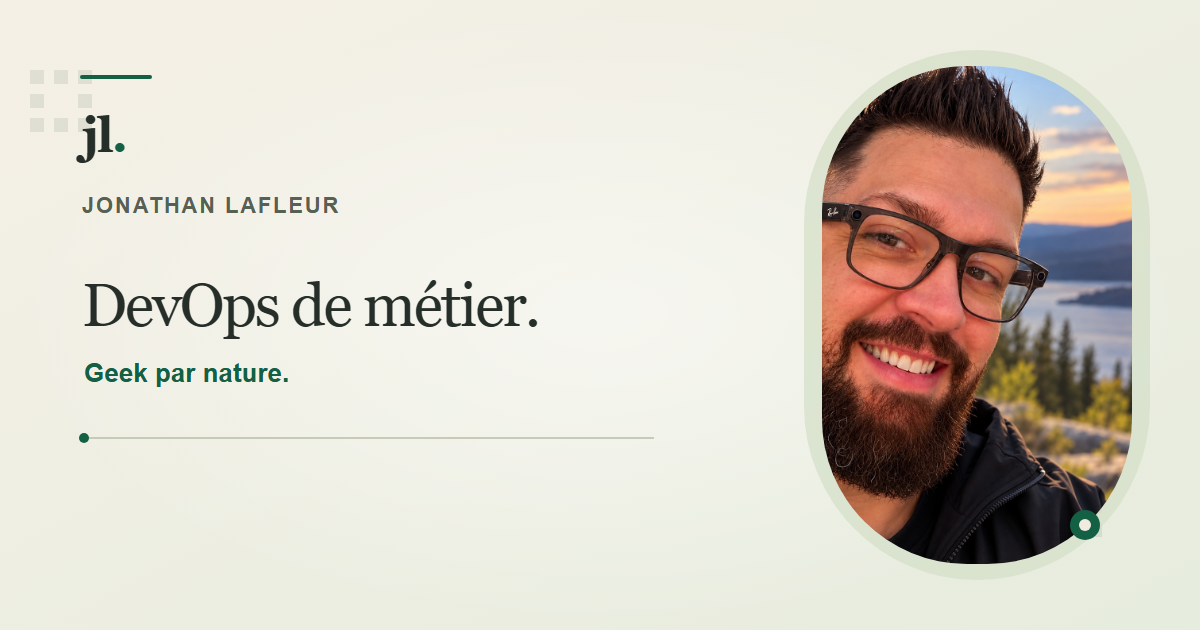
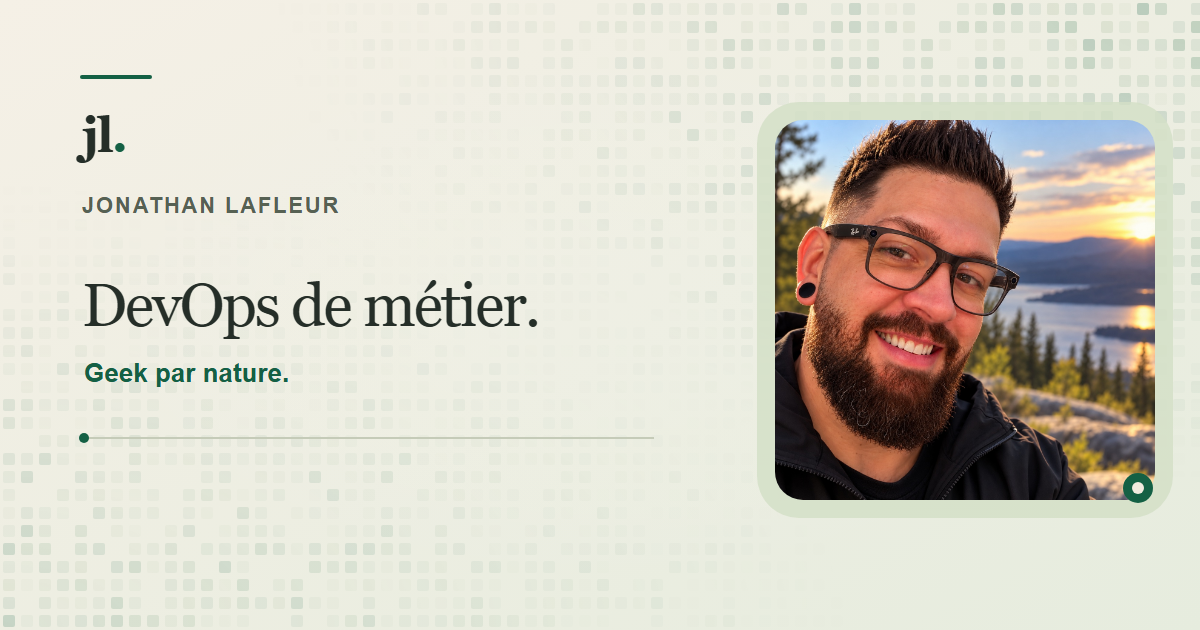
feat: add bilingual social sharing cards

diff --git a/en/index.html b/en/index.html
@@ -1,0 +1,210 @@
+<!doctype html>
+<html lang="en">
+<head>
+<meta charset="utf-8">
+<meta name="viewport" content="width=device-width, initial-scale=1">
+<title>Jonathan Lafleur — Projects & links</title>
+<meta name="description" content="Projects by Jonathan Lafleur: computer services, Kohai and links to GitHub and LinkedIn.">
+<link rel="canonical" href="https://jonathanlafleur.ca/en/">
+<link rel="alternate" hreflang="fr-CA" href="https://jonathanlafleur.ca/">
+<link rel="alternate" hreflang="en-CA" href="https://jonathanlafleur.ca/en/">
+<link rel="alternate" hreflang="x-default" href="https://jonathanlafleur.ca/">
+<meta property="og:type" content="website">
+<meta property="og:site_name" content="Jonathan Lafleur">
+<meta property="og:title" content="Jonathan Lafleur — DevOps by trade. Geek by nature.">
+<meta property="og:description" content="My projects in DevOps, programming, hardware and automation.">
+<meta property="og:url" content="https://jonathanlafleur.ca/en/">
+<meta property="og:image" content="https://jonathanlafleur.ca/assets/social-preview-en.png?v=20261022b">
+<meta property="og:image:width" content="1200">
+<meta property="og:image:height" content="630">
+<meta property="og:image:type" content="image/png">
+<meta property="og:image:alt" content="Jonathan Lafleur, DevOps by trade and geek by nature, with a sunset landscape behind him.">
+<meta property="og:locale" content="en_CA">
+<meta property="og:locale:alternate" content="fr_CA">
+<meta name="twitter:card" content="summary_large_image">
+<meta name="twitter:title" content="Jonathan Lafleur — DevOps by trade. Geek by nature.">
+<meta name="twitter:description" content="My projects in DevOps, programming, hardware and automation.">
+<meta name="twitter:image" content="https://jonathanlafleur.ca/assets/social-preview-en.png?v=20261022b">
+<meta name="twitter:image:alt" content="Jonathan Lafleur, DevOps by trade and geek by nature, with a sunset landscape behind him.">
+<meta name="color-scheme" content="light dark">
+<meta name="theme-color" content="#f1ebdf">
+<link rel="icon" href="../assets/favicon.svg" type="image/svg+xml">
+<link rel="stylesheet" href="../assets/style.css?v=20261022l">
+<script>
+try {
+  var size = localStorage.getItem('jl-hub-taille');
+  if (size === 'grande' || size === 'tres-grande') document.documentElement.dataset.taille = size;
+  var theme = localStorage.getItem('jl-hub-theme');
+  if (theme === 'light' || theme === 'dark') document.documentElement.dataset.theme = theme;
+} catch (e) {}
+</script>
+<script src="../assets/app.js?v=20261022l" defer></script>
+<script src="../assets/accessibility.js?v=20261022l" defer></script>
+<script src="../assets/contact.js?v=20261022l" defer></script>
+</head>
+<body>
+<a class="skip-link" href="#main" data-en="Skip to content">Aller au contenu</a>
+<header class="site-header wrap">
+  <a class="brand" href="./" aria-label="Jonathan Lafleur">
+    <span class="monogram" aria-hidden="true">jl<span>.</span></span>
+    <span>Jonathan Lafleur</span>
+  </a>
+  <nav class="navigation" aria-label="Menu principal" data-en-label="Main navigation">
+    <a href="#projets" data-en="Projects">Projets</a>
+    <a href="#activite" data-en="Activity">Activité</a>
+    <a href="#contact" data-en="Contact">Contact</a>
+    <button class="language-toggle" type="button" aria-label="Read in English" lang="en">EN</button>
+    <button class="theme-toggle" type="button" aria-label="Changer le thème" aria-pressed="false">
+      <svg viewBox="0 0 24 24" fill="none" stroke="currentColor" stroke-width="1.6" aria-hidden="true"><path d="M20.5 13A8.5 8.5 0 0 1 11 3.5 8.5 8.5 0 1 0 20.5 13Z"/></svg>
+    </button>
+  </nav>
+</header>
+<aside class="preferences" aria-label="Taille du texte" data-en-label="Text size">
+  <button type="button" class="preferences-toggle" aria-controls="display-controls" aria-expanded="true">
+    <span aria-hidden="true">Aa</span><span class="visually-hidden" data-en="Text size">Taille du texte</span>
+    <span class="preferences-arrow" aria-hidden="true">›</span>
+  </button>
+    <div class="tools" id="display-controls">
+      <p class="preference-label" data-en="Text size">Taille du texte</p><div class="switch" role="group" aria-label="Taille du texte" data-en-label="Text size">
+        <button type="button" data-taille-choice="normale" aria-pressed="true" aria-label="Taille du texte : normale" data-en-label="Text size: normal">A</button>
+        <button type="button" data-taille-choice="grande" aria-pressed="false" aria-label="Taille du texte : grande" data-en-label="Text size: large">A+</button>
+        <button type="button" data-taille-choice="tres-grande" aria-pressed="false" aria-label="Taille du texte : très grande" data-en-label="Text size: extra large">A++</button>
+      </div>
+    </div>
+</aside>
+<main id="main" class="wrap" tabindex="-1">
+  <section class="intro" aria-labelledby="intro-title">
+    <div class="intro-heading">
+      <p class="eyebrow"><span class="small-line" aria-hidden="true"></span><span data-en="DEVOPS · CODE · AI · HARDWARE">DEVOPS · CODE · IA · HARDWARE</span></p>
+      <h1 id="intro-title"><span data-en="DevOps by trade.">DevOps de métier.</span><br><em data-en="Geek by nature.">Geek par nature.</em></h1>
+      <p data-en="DevOps engineer, programmer and hands-on technician. I automate repetitive work to reduce fatigue and make everyday life easier.">DevOps, programmeur et technicien. J’automatise les tâches répétitives pour réduire la fatigue et simplifier le quotidien.</p>
+      <p class="muted" data-en="AI is part of how I build and explore. From software to hardware, curiosity is the common thread.">L’IA fait partie de ma façon de créer et d’explorer. Du logiciel au hardware, la curiosité est le fil conducteur.</p>
+      <a class="linkedin-primary" href="https://www.linkedin.com/in/jonathanlafleur/" target="_blank" rel="noopener noreferrer"><span data-en="My background on LinkedIn">Mon parcours sur LinkedIn</span><span aria-hidden="true">↗</span></a>
+      <a class="text-link" href="#projets"><span data-en="Explore my projects">Découvrir mes projets</span><span aria-hidden="true">↘</span></a>
+    </div>
+    <div class="intro-copy">
+      <figure class="portrait-frame">
+      <img class="profile-photo" src="../assets/profile-wayfarer.jpg" alt="Portrait de Jonathan Lafleur" data-en-alt="Portrait of Jonathan Lafleur" width="1254" height="1254" fetchpriority="high">
+        <figcaption>Jonathan Lafleur<span data-en="Curious. Always learning.">Curieux. Toujours en apprentissage.</span></figcaption>
+      </figure>
+    </div>
+  </section>
+  <section class="projects-section" id="projets" aria-labelledby="projects-title">
+    <div class="section-heading">
+      <div><p class="eyebrow" data-en="BUILT & SHARED">CRÉER & PARTAGER</p><h2 id="projects-title" data-en="A few things I’m building.">Quelques projets à découvrir.</h2></div>
+      <a class="quiet-link" href="https://github.com/jonathanlaf?tab=repositories" target="_blank" rel="noopener noreferrer"><span data-en="All repositories">Tous les dépôts</span><span aria-hidden="true">↗</span></a>
+    </div>
+    <div class="projects-grid">
+      <article class="project-card keyaura-card">
+        <a class="project-image-link" href="https://github.com/jonathanlaf/keyaura" aria-label="Découvrir KeyAura" data-en-label="Explore KeyAura" target="_blank" rel="noopener noreferrer">
+          <div class="project-image keyaura-image"><img src="../assets/keyaura-logo.png" alt="Logo KeyAura" data-en-alt="KeyAura logo" width="512" height="512" loading="lazy"><span class="keyaura-wordmark">KeyAura</span></div>
+          <span class="project-image-arrow" aria-hidden="true">↗</span>
+        </a>
+        <div class="project-body">
+          <div class="project-meta"><span class="project-category" data-en="MACOS · KEYBOARDS · AI-ASSISTED DEVELOPMENT">MACOS · CLAVIERS · DÉVELOPPEMENT AVEC L’IA</span><span class="project-number" aria-hidden="true">01 /</span></div>
+          <h3><a href="https://github.com/jonathanlaf/keyaura" target="_blank" rel="noopener noreferrer">KeyAura</a></h3>
+          <p data-en="A macOS overlay that makes programmable keyboards easier to learn: active layers, keys and shortcuts stay visible while you work. Built with Claude and Codex.">Une application macOS pour apprivoiser les claviers programmables : couches actives, touches et raccourcis restent visibles pendant le travail. Développée avec Claude et Codex.</p>
+          <p class="project-detail" data-en="Currently supports the ZSA Voyager via Oryx.">Compatible pour le moment avec le ZSA Voyager via Oryx.</p>
+          <a class="project-visit" href="https://github.com/jonathanlaf/keyaura" target="_blank" rel="noopener noreferrer"><span data-en="Explore KeyAura on GitHub">Découvrir KeyAura sur GitHub</span><span aria-hidden="true">↗</span></a>
+          <footer class="project-stats" data-repositories="keyaura"></footer>
+        </div>
+      </article>
+      <article class="project-card">
+        <a class="project-image-link" href="https://github.com/jonathanlaf/cad-mouse-mk2/tree/main/firmware" aria-label="Découvrir le firmware CAD Mouse MK2" data-en-label="Explore the CAD Mouse MK2 firmware" target="_blank" rel="noopener noreferrer">
+          <div class="project-image firmware-image" aria-hidden="true"><svg viewBox="0 0 240 160" fill="none"><path d="m120 18 70 40v66l-70 36-70-36V58zM50 58l70 40 70-40M120 98v62" stroke="currentColor" stroke-width="3"/><path d="M120 40v34m-16-18 16 18 16-18M76 116l28 16m-17-27-11 11 2 16M164 116l-28 16m17-27 11 11-2 16" stroke="currentColor" stroke-width="3"/></svg><span>CAD Mouse MK2</span><small data-en="Firmware + companion app · WIP">Firmware + application · En développement</small></div>
+          <span class="project-image-arrow" aria-hidden="true">↗</span>
+        </a>
+        <div class="project-body">
+          <div class="project-meta"><span class="project-category" data-en="HARDWARE · FIRMWARE · WORK IN PROGRESS">HARDWARE · FIRMWARE · EN DÉVELOPPEMENT</span><span class="project-number" aria-hidden="true">02 /</span></div>
+          <h3><a href="https://github.com/jonathanlaf/cad-mouse-mk2/tree/main/firmware" target="_blank" rel="noopener noreferrer">CAD Mouse MK2</a></h3>
+          <p data-en="Firmware adaptations and a companion app for a DIY six-axis CAD controller, based on the original CAD Mouse MK2 project. Both are works in progress, awaiting completion of my physical mouse build.">Des adaptations du firmware et une application compagnon pour un contrôleur de CAO à six axes, basé sur le projet original CAD Mouse MK2. Les deux sont en développement, en attendant que je termine la construction de ma souris.</p>
+          <p class="project-detail" data-en="A YouTube video is coming soon.">Une vidéo YouTube arrive bientôt.</p>
+          <a class="project-visit" href="https://github.com/jonathanlaf/cad-mouse-mk2/tree/main/firmware" target="_blank" rel="noopener noreferrer"><span data-en="Explore the firmware">Découvrir le firmware</span><span aria-hidden="true">↗</span></a>
+          <a class="project-visit" href="https://github.com/jonathanlaf/cad-mouse-mk2-companion-app" target="_blank" rel="noopener noreferrer"><span data-en="Explore the companion app">Découvrir l’application compagnon</span><span aria-hidden="true">↗</span></a>
+          <footer class="project-stats" data-repositories="cad-mouse-mk2 cad-mouse-mk2-companion-app"></footer>
+        </div>
+      </article>
+
+      <article class="project-card">
+        <a class="project-image-link" href="https://services.jonathanlafleur.ca/" aria-label="Découvrir Services PC et Mac" data-en-label="Visit PC and Mac Services" target="_blank" rel="noopener noreferrer">
+          <div class="project-image services-image">
+            <img src="../assets/services-preview.png" alt="Aperçu du site Services PC et Mac" data-en-alt="Preview of the PC and Mac Services website" width="1100" height="900">
+          </div>
+          <span class="project-image-arrow" aria-hidden="true">↗</span>
+        </a>
+        <div class="project-body">
+          <div class="project-meta"><span class="project-category" data-en="TECH SUPPORT">SERVICES INFORMATIQUES</span><span class="project-number" aria-hidden="true">03 /</span></div>
+          <h3><a href="https://services.jonathanlafleur.ca/" data-en="PC & Mac Services" target="_blank" rel="noopener noreferrer">Services PC et Mac</a></h3>
+          <p data-en="Troubleshooting, upgrades and friendly help. Remotely, at the workshop or at your home for setup.">Dépannage, améliorations et accompagnement. À distance, à l’atelier ou chez vous pour la configuration.</p>
+          <a class="project-visit" href="https://services.jonathanlafleur.ca/" target="_blank" rel="noopener noreferrer"><span>services.jonathanlafleur.ca</span><span aria-hidden="true">↗</span></a>
+          <footer class="project-stats" data-repositories="services"></footer>
+        </div>
+      </article>
+      <article class="project-card">
+        <a class="project-image-link" href="https://kohai.jonathanlafleur.ca/" aria-label="Découvrir Kohai" data-en-label="Visit Kohai" target="_blank" rel="noopener noreferrer">
+          <div class="project-image kohai-image">
+            <img src="../assets/kohai-preview.png" alt="Aperçu de Kohai, fiches d’étude de kata" data-en-alt="Preview of Kohai, kata study notes" width="1100" height="900">
+          </div>
+          <span class="project-image-arrow" aria-hidden="true">↗</span>
+        </a>
+        <div class="project-body">
+          <div class="project-meta"><span class="project-category" data-en="LEARNING & KARATE">APPRENTISSAGE & KARATÉ</span><span class="project-number" aria-hidden="true">04 /</span></div>
+          <h3><a href="https://kohai.jonathanlafleur.ca/" target="_blank" rel="noopener noreferrer">Kohai <span class="kanji" lang="ja">後輩</span></a></h3>
+          <p data-en="Personal study notes for Shotokan karate kata. A place to review, understand and keep learning.">Des fiches personnelles pour étudier les kata de karaté Shotokan. Un espace pour réviser, comprendre et continuer d’apprendre.</p>
+          <a class="project-visit" href="https://kohai.jonathanlafleur.ca/" target="_blank" rel="noopener noreferrer"><span>kohai.jonathanlafleur.ca</span><span aria-hidden="true">↗</span></a>
+          <footer class="project-stats" data-repositories="kohai"></footer>
+        </div>
+      </article>
+    </div>
+  </section>
+  <section id="activite" class="activity-section" aria-labelledby="activity-title">
+    <div class="section-heading"><div><p class="eyebrow" data-en="A LITTLE GREEN, DAY BY DAY">DU VERT, AU FIL DES JOURS</p><h2 id="activity-title" data-en="Building, one contribution at a time.">Créer, une contribution à la fois.</h2></div><a class="quiet-link" href="https://github.com/jonathanlaf" target="_blank" rel="noopener noreferrer"><span data-en="View on GitHub">Voir sur GitHub</span><span aria-hidden="true">↗</span></a></div>
+    <p class="activity-summary" data-activity-summary data-en="My contribution activity, as shown on my public GitHub profile.">Mon activité de contribution, telle qu’affichée sur mon profil GitHub public.</p>
+    <p class="muted" data-en="I also contribute to private Git repositories whose activity is not represented here.">Je contribue aussi à des dépôts Git privés dont l’activité n’est pas représentée ici.</p>
+    <div class="contribution-scroll" tabindex="0" role="region" aria-label="Calendrier des contributions GitHub, défilement horizontal" data-en-label="GitHub contribution calendar, scroll horizontally">
+      <div class="contribution-chart"><div class="contribution-months" aria-hidden="true"></div><div class="contribution-grid" role="group" aria-describedby="calendar-help"></div></div>
+    </div>
+    <p class="visually-hidden" id="calendar-help" data-en="Use the arrow keys to explore individual days. Left and right move by a week; up and down move by a day. Home and End jump to the first and last day.">Utilisez les flèches pour parcourir les jours. Gauche et droite changent de semaine ; haut et bas changent de jour. Début et Fin vont au premier et au dernier jour.</p>
+    <div class="contribution-caption"><span data-activity-updated>Activité du profil public</span><span class="contribution-legend"><span data-en="Less">Moins</span><i data-level="0"></i><i data-level="1"></i><i data-level="2"></i><i data-level="3"></i><i data-level="4"></i><span data-en="More">Plus</span></span></div>
+  </section>
+  <section class="connect-section" id="contact" aria-labelledby="connect-title">
+    <div class="connect-copy"><p class="eyebrow" data-en="LET’S CONNECT">GARDONS LE CONTACT</p><h2 id="connect-title" data-en="The code. The person.">Le code. La personne.</h2><p data-en="I like helping people, learning and growing. Family matters to me, as does using technology to make more room for life. Find my professional background on LinkedIn and more projects on GitHub.">J’aime aider les gens, apprendre et grandir. Ma famille compte beaucoup pour moi, tout comme utiliser la technologie pour faire plus de place à la vie. Retrouvez mon parcours sur LinkedIn et d’autres projets sur GitHub.</p></div>
+    <div class="profile-links">
+      <div class="contact-actions">
+        <a class="text-link" data-contact-phone href="#message"><span data-en="Call me">Appelez-moi</span><span aria-hidden="true">↗</span></a>
+        <a class="text-link" data-contact-email href="#message"><span data-en="Email me">Écrivez-moi</span><span aria-hidden="true">↗</span></a>
+      </div>
+      <a class="profile-link" href="https://www.linkedin.com/in/jonathanlafleur/" target="_blank" rel="noopener noreferrer">
+        <svg viewBox="0 0 24 24" fill="currentColor" aria-hidden="true"><path d="M5 3a2 2 0 1 0 0 4 2 2 0 0 0 0-4ZM3.3 9h3.4v12H3.3V9Zm5.5 0H12v1.6h.05c.45-.85 1.55-1.85 3.2-1.85 3.43 0 4.05 2.25 4.05 5.18V21h-3.4v-6.27c0-1.5-.03-3.43-2.1-3.43-2.1 0-2.42 1.63-2.42 3.32V21H8.8V9Z"/></svg>
+        <span><strong>LinkedIn</strong><small>Jonathan Lafleur</small></span><span class="link-arrow" aria-hidden="true">↗</span>
+      </a>
+      <a class="profile-link" href="https://github.com/jonathanlaf" target="_blank" rel="noopener noreferrer">
+        <svg viewBox="0 0 24 24" fill="currentColor" aria-hidden="true"><path d="M12 2a10 10 0 0 0-3.16 19.49c.5.09.68-.22.68-.48v-1.86c-2.78.6-3.37-1.18-3.37-1.18-.45-1.16-1.11-1.47-1.11-1.47-.91-.62.07-.61.07-.61 1 .07 1.53 1.03 1.53 1.03.89 1.53 2.34 1.09 2.91.83.09-.65.35-1.09.64-1.34-2.22-.25-4.55-1.11-4.55-4.94 0-1.09.39-1.99 1.03-2.69-.1-.25-.45-1.27.1-2.65 0 0 .84-.27 2.75 1.03A9.58 9.58 0 0 1 12 6.82c.85 0 1.71.11 2.51.34 1.91-1.3 2.75-1.03 2.75-1.03.55 1.38.2 2.4.1 2.65.64.7 1.03 1.6 1.03 2.69 0 3.84-2.34 4.68-4.57 4.93.36.31.68.92.68 1.85v2.76c0 .27.18.58.69.48A10 10 0 0 0 12 2Z"/></svg>
+        <span><strong>GitHub</strong><small>@jonathanlaf</small></span><span class="link-arrow" aria-hidden="true">↗</span>
+      </a>
+    </div>
+  </section>
+  <section class="message-section" id="message" aria-labelledby="message-title">
+    <div><p class="eyebrow" data-en="SAY HELLO">UN MOT POUR COMMENCER</p><h2 id="message-title" data-en="Let’s talk.">On se parle ?</h2><p class="muted" data-en="A project, an idea or a question? Send me a message.">Un projet, une idée ou une question ? Envoyez-moi un message.</p></div>
+    <form class="contact-form" action="https://formspree.io/f/mvkzevgd" method="post" novalidate>
+      <input type="hidden" name="_subject" value="Message depuis jonathanlafleur.ca">
+      <input type="hidden" name="source" value="jonathanlafleur.ca">
+      <input class="form-honeypot" type="text" name="_gotcha" tabindex="-1" autocomplete="off" aria-hidden="true">
+      <label for="contact-name" data-en="Your name (optional)">Votre nom (facultatif)</label>
+      <input id="contact-name" name="name" autocomplete="name" maxlength="100" aria-describedby="contact-name-error">
+      <p class="field-error" id="contact-name-error" hidden></p>
+      <label for="contact-email" data-en="Your email (required)">Votre courriel (obligatoire)</label>
+      <input id="contact-email" name="email" type="email" autocomplete="email" maxlength="254" required aria-describedby="contact-email-error">
+      <p class="field-error" id="contact-email-error" hidden></p>
+      <label for="contact-message" data-en="Your message (required)">Votre message (obligatoire)</label>
+      <textarea id="contact-message" name="message" rows="5" maxlength="3000" required aria-describedby="contact-message-error"></textarea>
+      <p class="field-error" id="contact-message-error" hidden></p>
+      <p class="form-privacy muted"><span data-en="Your message is sent through Formspree so I can reply.">Votre message est transmis par Formspree pour me permettre de vous répondre.</span> <a href="https://formspree.io/legal/privacy-policy/" target="_blank" rel="noopener noreferrer" data-en="Formspree privacy policy">Confidentialité de Formspree</a></p>
+      <button class="send-button" type="submit"><span data-en="Send my message">Envoyer mon message</span><span aria-hidden="true">↗</span></button>
+      <p id="contact-status" role="status" aria-live="polite" aria-atomic="true" tabindex="-1"></p>
+    </form>
+  </section>
+</main>
+<footer class="site-footer wrap"><span>© <span id="year">2026</span> Jonathan Lafleur</span><a href="#main" data-en="Back to top ↑">Retour en haut ↑</a></footer>
+</body>
+</html>

diff --git a/index.html b/index.html
@@ -6,12 +6,15 @@
 <title>Jonathan Lafleur — Projets & liens</title>
 <meta name="description" content="Les projets de Jonathan Lafleur : services informatiques, Kohai et liens vers GitHub et LinkedIn.">
 <link rel="canonical" href="https://jonathanlafleur.ca/">
+<link rel="alternate" hreflang="fr-CA" href="https://jonathanlafleur.ca/">
+<link rel="alternate" hreflang="en-CA" href="https://jonathanlafleur.ca/en/">
+<link rel="alternate" hreflang="x-default" href="https://jonathanlafleur.ca/">
 <meta property="og:type" content="website">
 <meta property="og:site_name" content="Jonathan Lafleur">
 <meta property="og:title" content="Jonathan Lafleur — DevOps de métier. Geek par nature.">
 <meta property="og:description" content="Mes projets en DevOps, programmation, hardware et automatisation.">
 <meta property="og:url" content="https://jonathanlafleur.ca/">
-<meta property="og:image" content="https://jonathanlafleur.ca/assets/social-preview.png?v=20261022a">
+<meta property="og:image" content="https://jonathanlafleur.ca/assets/social-preview.png?v=20261022b">
 <meta property="og:image:width" content="1200">
 <meta property="og:image:height" content="630">
 <meta property="og:image:type" content="image/png">
@@ -21,12 +24,12 @@
 <meta name="twitter:card" content="summary_large_image">
 <meta name="twitter:title" content="Jonathan Lafleur — DevOps de métier. Geek par nature.">
 <meta name="twitter:description" content="Mes projets en DevOps, programmation, hardware et automatisation.">
-<meta name="twitter:image" content="https://jonathanlafleur.ca/assets/social-preview.png?v=20261022a">
+<meta name="twitter:image" content="https://jonathanlafleur.ca/assets/social-preview.png?v=20261022b">
 <meta name="twitter:image:alt" content="Jonathan Lafleur, DevOps de métier et geek par nature, devant un paysage au coucher du soleil.">
 <meta name="color-scheme" content="light dark">
 <meta name="theme-color" content="#f1ebdf">
 <link rel="icon" href="assets/favicon.svg" type="image/svg+xml">
-<link rel="stylesheet" href="assets/style.css?v=20261022k">
+<link rel="stylesheet" href="assets/style.css?v=20261022l">
 <script>
 try {
   var size = localStorage.getItem('jl-hub-taille');
@@ -35,9 +38,9 @@ try {
   if (theme === 'light' || theme === 'dark') document.documentElement.dataset.theme = theme;
 } catch (e) {}
 </script>
-<script src="assets/app.js?v=20261022k" defer></script>
-<script src="assets/accessibility.js?v=20261022k" defer></script>
-<script src="assets/contact.js?v=20261022k" defer></script>
+<script src="assets/app.js?v=20261022l" defer></script>
+<script src="assets/accessibility.js?v=20261022l" defer></script>
+<script src="assets/contact.js?v=20261022l" defer></script>
 </head>
 <body>
 <a class="skip-link" href="#main" data-en="Skip to content">Aller au contenu</a>

diff --git a/assets/app.js b/assets/app.js
@@ -43,7 +43,14 @@
     themeButton.setAttribute('aria-label', root.lang === 'en' ? (dark ? 'Use light theme' : 'Use dark theme') : (dark ? 'Activer le thème clair' : 'Activer le thème sombre'));
     document.querySelector('meta[name="theme-color"]').content = dark ? '#202322' : '#f1ebdf';
   }
-  languageButton.addEventListener('click', function () { var next = root.lang === 'fr' ? 'en' : 'fr'; save('jl-hub-lang', next); language(next); });
+  languageButton.addEventListener('click', function () {
+    var next = root.lang === 'fr' ? 'en' : 'fr';
+    save('jl-hub-lang', next);
+    var englishPath = location.pathname === '/en/' || location.pathname === '/en';
+    if (next === 'en' && !englishPath) { location.assign('/en/' + location.hash); return; }
+    if (next === 'fr' && englishPath) { location.assign('/' + location.hash); return; }
+    language(next);
+  });
   themeButton.addEventListener('click', function () { var next = isDark() ? 'light' : 'dark'; root.dataset.theme = next; save('jl-hub-theme', next); updateThemeButton(); });
   matchMedia('(prefers-color-scheme: dark)').addEventListener('change', updateThemeButton);
   var sizeButtons = document.querySelectorAll('[data-taille-choice]');
@@ -165,7 +172,7 @@
     cells[next].focus({preventScroll:true});
     cells[next].scrollIntoView({block:'nearest',inline:'nearest'});
   });
-  fetch('assets/contributions.json', { cache: 'no-cache' }).then(function (response) {
+  fetch('/assets/contributions.json', { cache: 'no-cache' }).then(function (response) {
     if (!response.ok) throw new Error('Calendar unavailable');
     return response.json();
   }).then(function (data) {
@@ -216,12 +223,17 @@
       slot.append(heading, values);
     });
   }
-  fetch('assets/repositories.json', {cache:'no-cache'}).then(function (response) {
+  fetch('/assets/repositories.json', {cache:'no-cache'}).then(function (response) {
     if (!response.ok) throw new Error('Repository activity unavailable');
     return response.json();
   }).then(function(data) { repositoryData = data; renderRepositories(data); }).catch(function() {
     document.querySelectorAll('.project-stats').forEach(function(slot) { slot.hidden = true; });
   });
 
-  language(read('jl-hub-lang') === 'en' ? 'en' : 'fr');
+  var englishPath = location.pathname === '/en/' || location.pathname === '/en';
+  if (!englishPath && read('jl-hub-lang') === 'en') {
+    location.replace('/en/' + location.hash);
+    return;
+  }
+  language(englishPath ? 'en' : 'fr');
 })();
